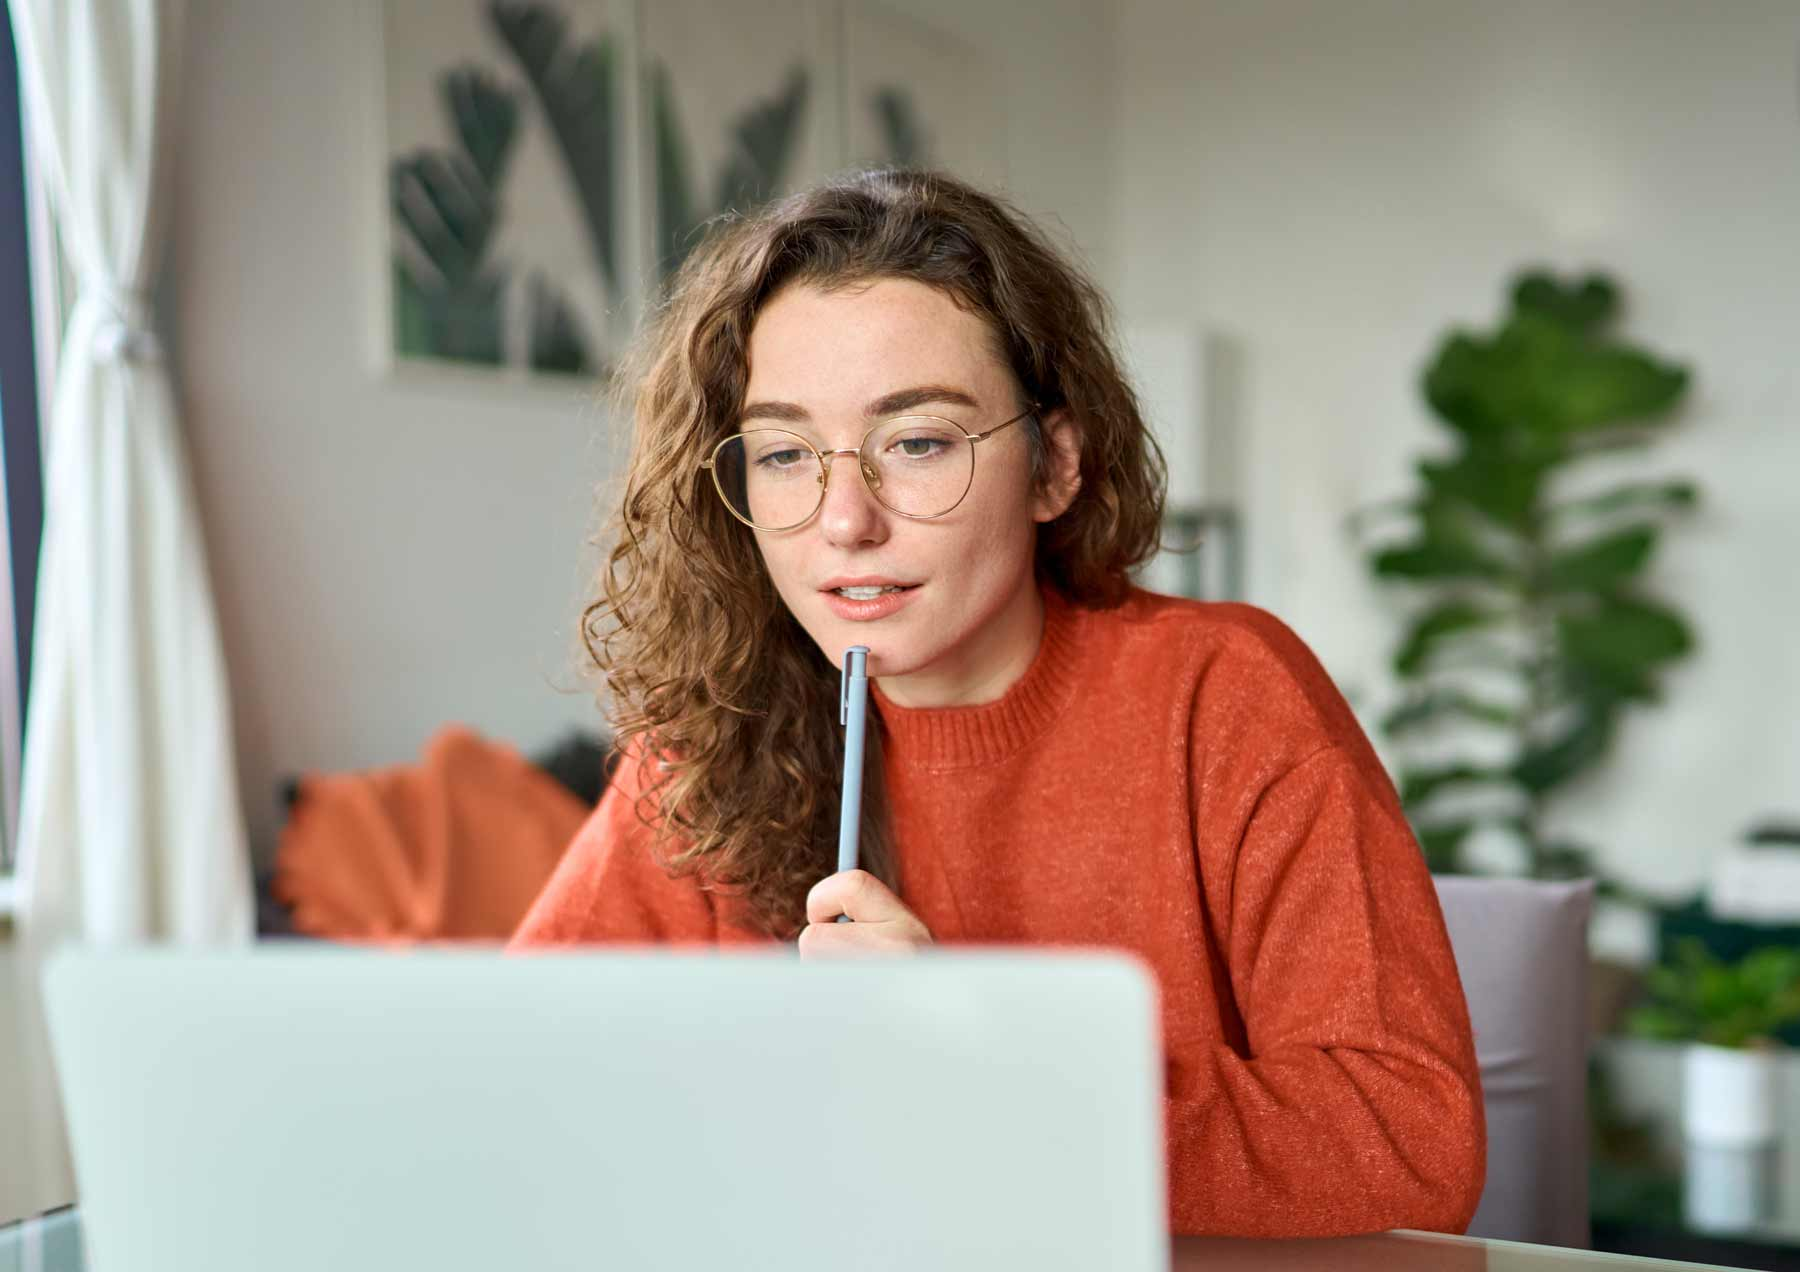
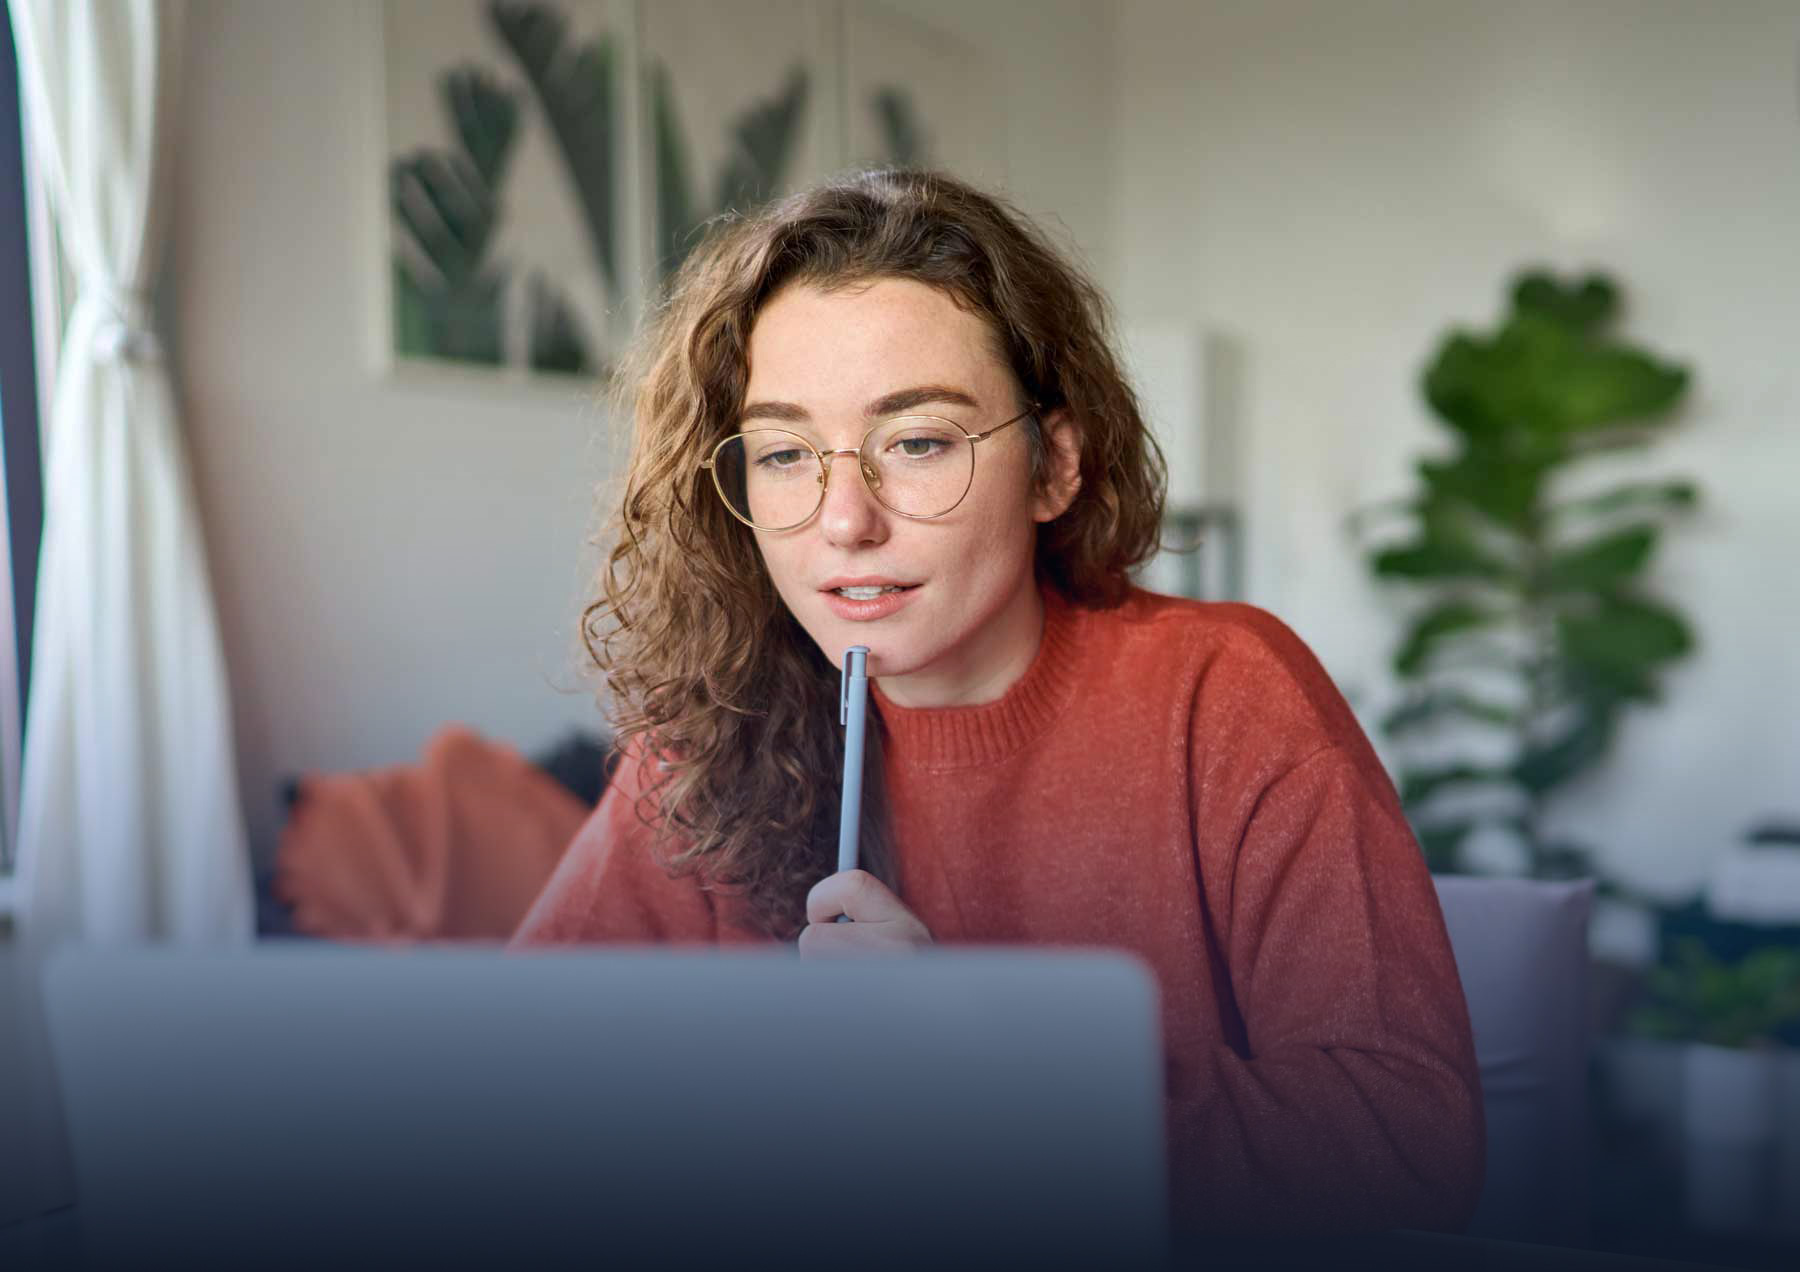
Updating

diff --git a/src/app/lernsystem-basic/Feature2.tsx b/src/app/lernsystem-basic/Feature2.tsx
@@ -17,7 +17,7 @@ export default function Features2() {
         <div className="mx-auto grid max-w-2xl grid-cols-1 gap-x-8 gap-y-16 sm:gap-y-20 lg:mx-0 lg:max-w-none lg:grid-cols-2">
           <div className="lg:pr-8 lg:pt-4">
             <div className="lg:max-w-lg">
-              <p className="mt-2 text-3xl font-bold tracking-tight text-gray-900 dark:text-white sm:text-4xl">Lernblockaden vermeiden</p>
+              <p className="mt-2 text-3xl font-bold tracking-tight text-gray-900 dark:text-white sm:text-4xl">Lernblockaden entfernen</p>
               <p className="mt-6 text-lg leading-8 text-gray-600 dark:text-gray-400">
                 Du kannst den besten Lernplan und den höchsten IQ haben, wenn du dich ständig selbst sabotierst, wirst du scheitern. Wir geben dir nützliche Tipps um motiviert und strukturiert zu lernen, ohne Prokrastination.
               </p>
@@ -35,16 +35,16 @@ export default function Features2() {
             </div>
           </div>
           <Image
-            src="/images/project-app-screenshot-3.png"
-            alt="Product screenshot"
-            className="rounded-xl shadow-xl ring-1 ring-gray-400/10 block dark:hidden"
+            src="/images/lernblockaden-entfernen.png"
+            alt="Lernblockaden vermeiden"
+            className="block dark:hidden"
             width={2432}
             height={1442}
           />
           <Image
-            src="/images/dark-project-app-screenshot-3.png"
-            alt="Product screenshot"
-            className="rounded-xl shadow-xl ring-1 ring-gray-400/10 hidden dark:block"
+            src="/images/lernblockaden-entfernen-dark.png"
+            alt="Lernblockaden vermeiden"
+            className="hidden dark:block"
             width={2432}
             height={1442}
           />

diff --git a/src/app/lernsystem-basic/Feature1.tsx b/src/app/lernsystem-basic/Feature1.tsx
@@ -17,7 +17,7 @@ export default function Feature1() {
         <div className="mx-auto grid max-w-2xl grid-cols-1 gap-x-8 gap-y-16 sm:gap-y-20 lg:mx-0 lg:max-w-none lg:grid-cols-2">
           <div className="lg:ml-auto lg:pl-4 lg:pt-4">
             <div className="lg:max-w-lg">
-              <p className="mt-2 text-3xl font-bold tracking-tight text-gray-900 dark:text-white sm:text-4xl">Verständliche Lernmethoden</p>
+              <p className="mt-2 text-3xl font-bold tracking-tight text-gray-900 dark:text-white sm:text-4xl">Effektive Lernmethoden</p>
               <p className="mt-6 text-lg leading-8 text-gray-600 dark:text-gray-400">
                 Du bekommst mehr als nur einen stumpfen Ablaufplan. Wir zeigen dir wissenschaftlich erforschte Lernmethoden.
               </p>

diff --git a/src/app/lernsystem-basic/Feature4.tsx b/src/app/lernsystem-basic/Feature4.tsx
@@ -35,16 +35,8 @@ export default function Features4() {
             </div>
           </div>
           <Image
-            src="/images/project-app-screenshot-3.png"
-            alt="Product screenshot"
-            className="rounded-xl shadow-xl ring-1 ring-gray-400/10 block dark:hidden"
-            width={2432}
-            height={1442}
-          />
-          <Image
-            src="/images/dark-project-app-screenshot-3.png"
-            alt="Product screenshot"
-            className="rounded-xl shadow-xl ring-1 ring-gray-400/10 hidden dark:block"
+            src="/images/lerninhalte-strukturieren.png"
+            alt="Lerninhalte Strukturieren"
             width={2432}
             height={1442}
           />

diff --git a/src/app/Wasbietenwiran.tsx b/src/app/Wasbietenwiran.tsx
@@ -56,9 +56,7 @@ const posts = [
                 className="absolute inset-0 -z-10 h-full w-full bg-white dark:bg-gray-900 overflow-hidden object-cover rounded-2xl"
                 width={768}
                 height={800}
-                />
-                <div className="absolute inset-0 -z-10 rounded-2xl bg-gradient-to-t from-gray-900 via-gray-900/40" />
-  
+                />  
                 <div className="flex flex-row gap-y-1 overflow-hidden text-sm leading-6 text-gray-300">
                   <p className="text-3xl font-semibold text-white mr-8">{post.product}</p>
                 </div>
